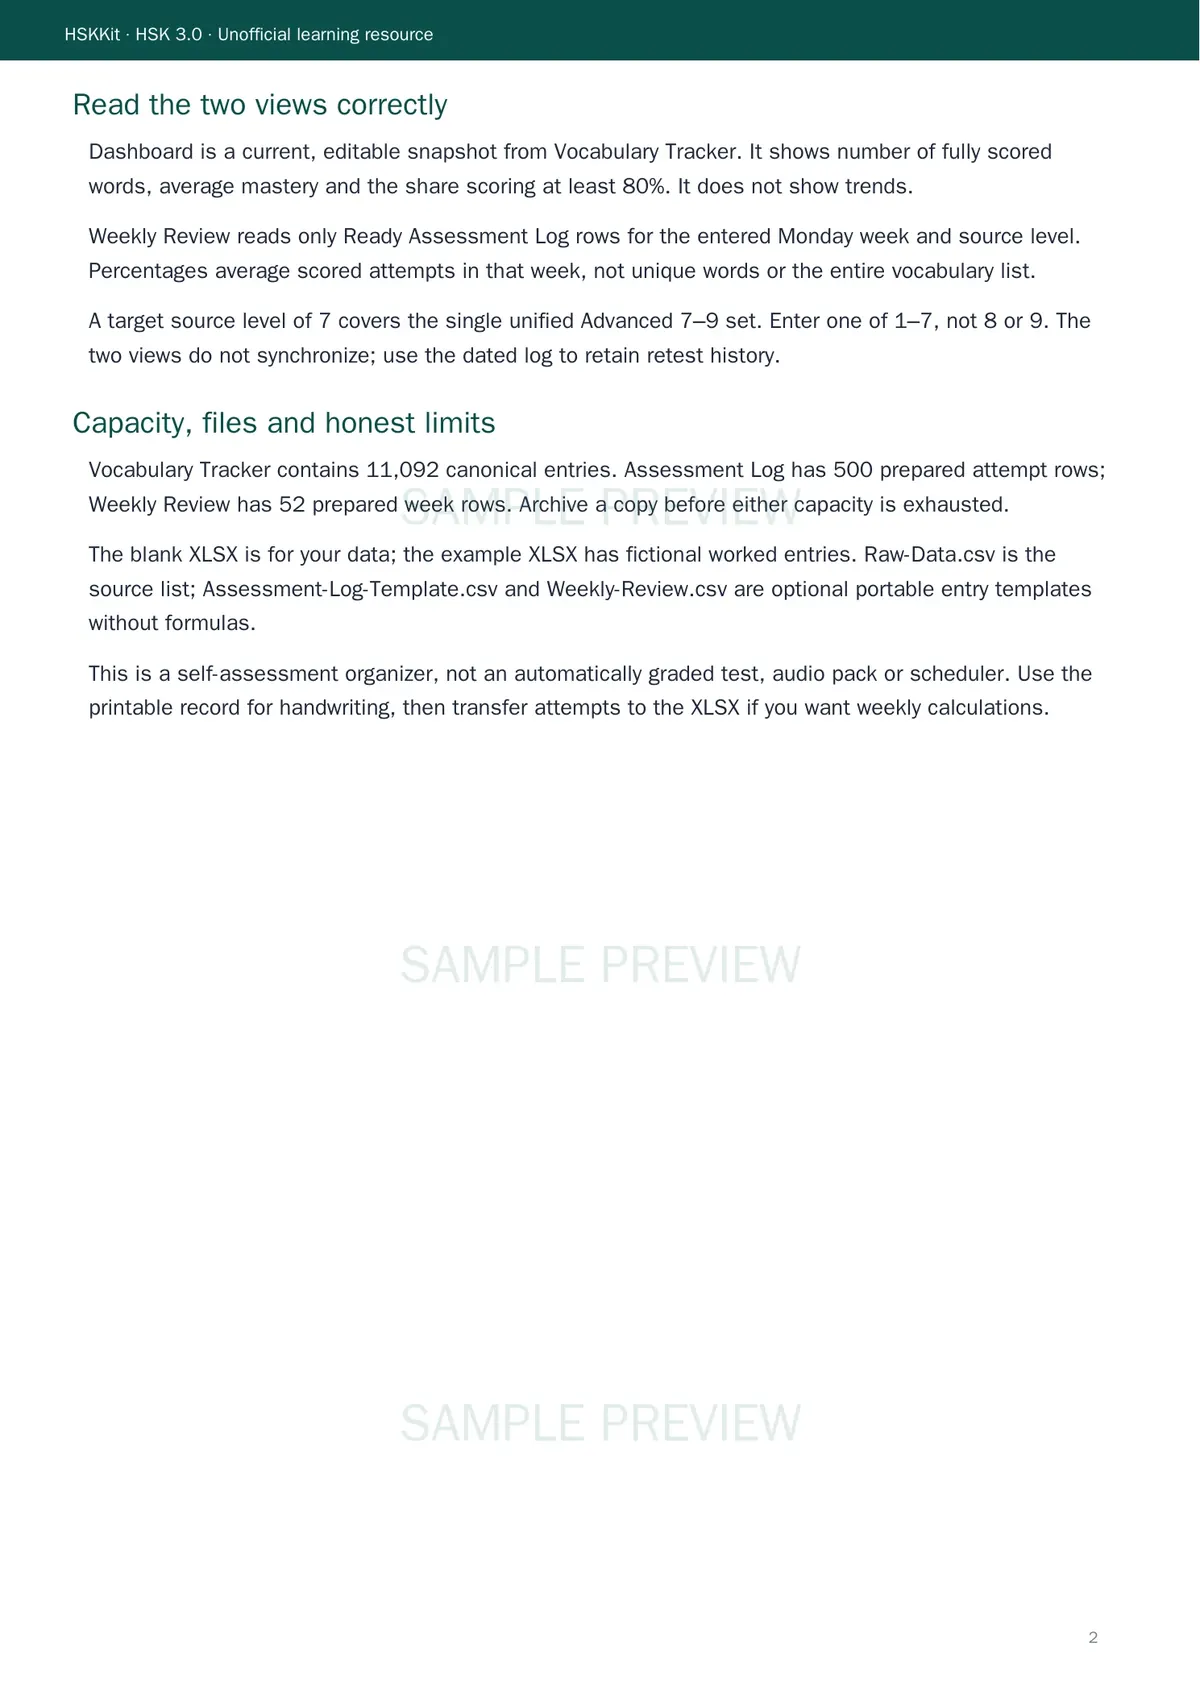
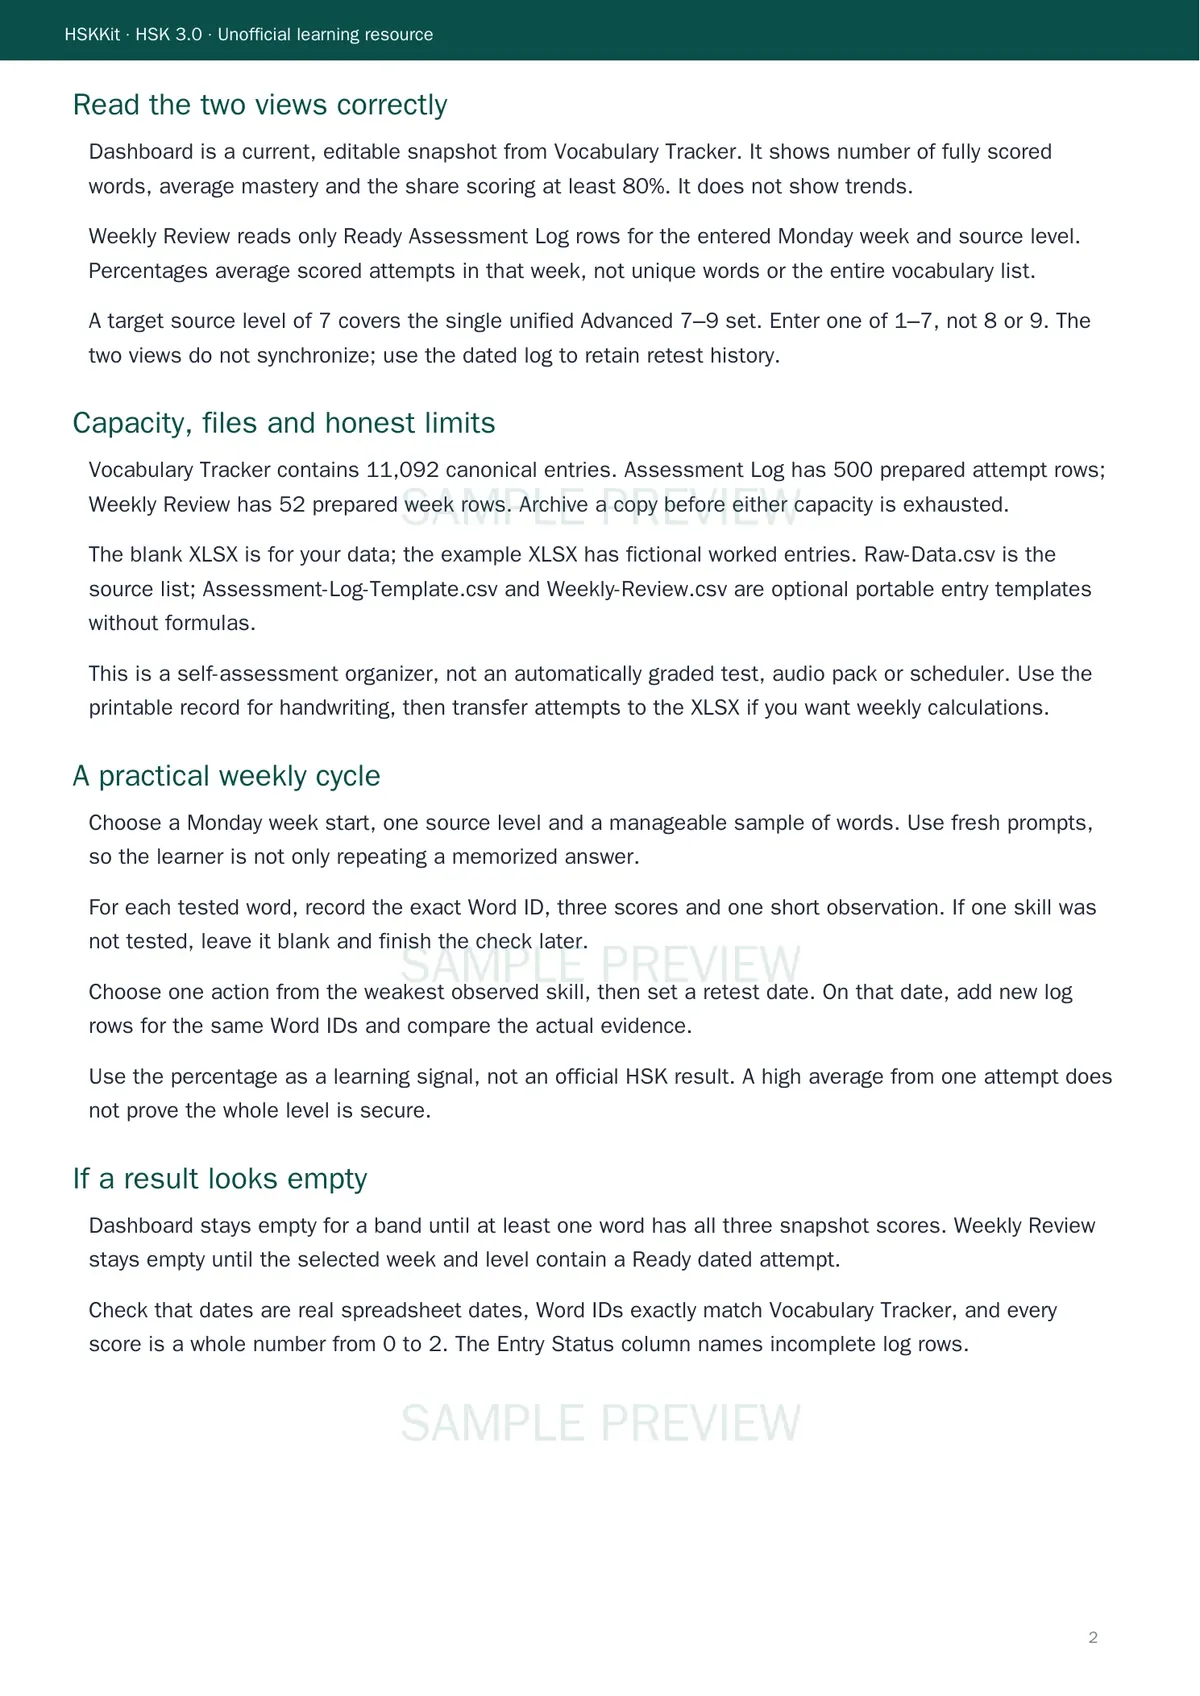
Complete the practical weekly assessment guide

diff --git a/src/lib/commercial/product-generator.ts b/src/lib/commercial/product-generator.ts
@@ -807,7 +807,9 @@ export async function generateDifferentiatedProductArtifact(productId:DigitalPro
       {heading:"Score observed performance, 0–2 per skill",body:["Recognition: 0 = cannot identify the word; 1 = identifies with a prompt; 2 = identifies independently.","Recall: 0 = cannot retrieve meaning; 1 = partial or slow meaning; 2 = accurate meaning without a prompt.","Usage: 0 = cannot use it accurately; 1 = comprehensible use with a minor error; 2 = accurate sentence or response.","Mastery = (recognition + recall + usage) / 6 only when all three scores are entered. Blank means not measured; a scored zero means the learner attempted the skill.","Example: recognition 2, recall blank, usage blank → mastery blank. Scores 2, 1, 1 → 4/6 = 66.7%."]},
       {heading:"Worked retest: one word, two dated attempts",body:["On 7 September, Word ID from Vocabulary Tracker: recognition 2, recall 1, usage 0. Complete attempt = 3/6 = 50%. Evidence: recognized with no cue, could not form a sentence.","Action: write one original sentence, check it, then retrieve the meaning and sentence the following week. Record the action and next review date.","On 14 September, enter a NEW Assessment Log row for the same Word ID: 2, 2, 1 = 5/6 = 83.3%. Keep both rows; the weekly view now shows one complete attempt in each week.","A dated row missing the date, known Word ID or any of the three scores is not Ready and is excluded from Weekly Review."]},
       {heading:"Read the two views correctly",pageBreakBefore:true,body:["Dashboard is a current, editable snapshot from Vocabulary Tracker. It shows number of fully scored words, average mastery and the share scoring at least 80%. It does not show trends.","Weekly Review reads only Ready Assessment Log rows for the entered Monday week and source level. Percentages average scored attempts in that week, not unique words or the entire vocabulary list.","A target source level of 7 covers the single unified Advanced 7–9 set. Enter one of 1–7, not 8 or 9. The two views do not synchronize; use the dated log to retain retest history."]},
-      {heading:"Capacity, files and honest limits",body:["Vocabulary Tracker contains 11,092 canonical entries. Assessment Log has 500 prepared attempt rows; Weekly Review has 52 prepared week rows. Archive a copy before either capacity is exhausted.","The blank XLSX is for your data; the example XLSX has fictional worked entries. Raw-Data.csv is the source list; Assessment-Log-Template.csv and Weekly-Review.csv are optional portable entry templates without formulas.","This is a self-assessment organizer, not an automatically graded test, audio pack or scheduler. Use the printable record for handwriting, then transfer attempts to the XLSX if you want weekly calculations."]}
+      {heading:"Capacity, files and honest limits",body:["Vocabulary Tracker contains 11,092 canonical entries. Assessment Log has 500 prepared attempt rows; Weekly Review has 52 prepared week rows. Archive a copy before either capacity is exhausted.","The blank XLSX is for your data; the example XLSX has fictional worked entries. Raw-Data.csv is the source list; Assessment-Log-Template.csv and Weekly-Review.csv are optional portable entry templates without formulas.","This is a self-assessment organizer, not an automatically graded test, audio pack or scheduler. Use the printable record for handwriting, then transfer attempts to the XLSX if you want weekly calculations."]},
+      {heading:"A practical weekly cycle",body:["Choose a Monday week start, one source level and a manageable sample of words. Use fresh prompts, so the learner is not only repeating a memorized answer.","For each tested word, record the exact Word ID, three scores and one short observation. If one skill was not tested, leave it blank and finish the check later.","Choose one action from the weakest observed skill, then set a retest date. On that date, add new log rows for the same Word IDs and compare the actual evidence.","Use the percentage as a learning signal, not an official HSK result. A high average from one attempt does not prove the whole level is secure."]},
+      {heading:"If a result looks empty",body:["Dashboard stays empty for a band until at least one word has all three snapshot scores. Weekly Review stays empty until the selected week and level contain a Ready dated attempt.","Check that dates are real spreadsheet dates, Word IDs exactly match Vocabulary Tracker, and every score is a whole number from 0 to 2. The Entry Status column names incomplete log rows."]}
     ],fontBytes);
     const printableSections=selections.map((selection,index)=>({
       heading:`${selection.level===7?"Advanced 7–9":"Level "+selection.level} · Assessment checkpoint`,
